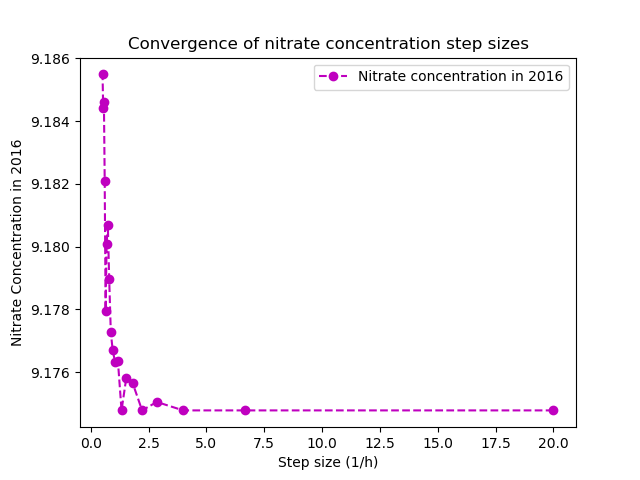
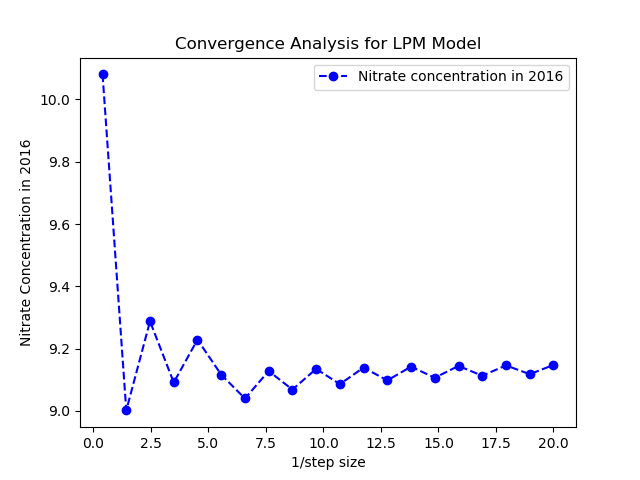
Fixed convergence analysis plot

diff --git a/testing_functions.py b/testing_functions.py
@@ -106,38 +106,34 @@ def test_dCdt():
 
 def convergence_analysis():
     '''
-    sergence analysis for our model.
-    This function finds the optimal step size for the time array in our model by testing the model at 2016 with 
-    a variety of stepsizes.
+    Produces a convergence analysis plot for our LPM model.
+
+    Notes
+    -----
+    saves figure as convergence.png
+    
     '''
 
-    # Pre-allocating solutions array
-    sols = []
-    # Creating stepsizes array
-    step_sizes = np.arange(0.05,2.05,0.1)
-
-    # Get the parameters for the model
+    hsteps = 1/(np.linspace(0.4,20,20)) # step size vector
     pars = posterior_pars()[1]
+    C_final = [] # solution vector
 
-    for step in step_sizes:
-        # time range with step size
-        t = np.arange(1980, 2020, step)
-        # Get the concentration model
-        C = LPM_Model(t, *pars)
-        # Interpolate model at chosen year
-        C = np.interp(2016, t, C)
-        # add solution at each step size to array
-        sols.append(C)
+    # Solve model for a range of step sizes
+    for h in hsteps:
+        t = np.arange(1980,2020,h)
+        P = solve_dPdt(dPdt,t)
+        C = solve_dCdt(dCdt,t,P,*pars)
+        C_final.append(np.interp(2016, t, C))
   
-    # Plot the graph
+    # Produce convergence analysis plot
     fig2 = plt.figure()
     ax2 = fig2.add_subplot(111)
-    ax2.plot(1/step_sizes, sols, 'mo--', label = 'Nitrate concentration in 2016')
+    ax2.plot(1/hsteps, C_final, 'bo--', label = 'Nitrate concentration in 2016')
     ax2.legend() 
-    ax2.set_title('Convergence of nitrate concentration step sizes')
-    ax2.set_xlabel('Step size (1/h)')
+    ax2.set_title('Convergence Analysis for LPM Model')
+    ax2.set_xlabel('1/step size')
     ax2.set_ylabel('Nitrate Concentration in 2016')
-    # plt.show()
+    #plt.show()
     fig2.savefig('Plots'+ os.sep + 'convergence.png')
     plt.close(fig2)
 

diff --git a/main.py b/main.py
@@ -9,6 +9,7 @@ from model_functions import *
 from testing_functions import *
 from plotting_functions import *
 
+convergence_analysis()
 # Plotting the data
 plot_data()
 
